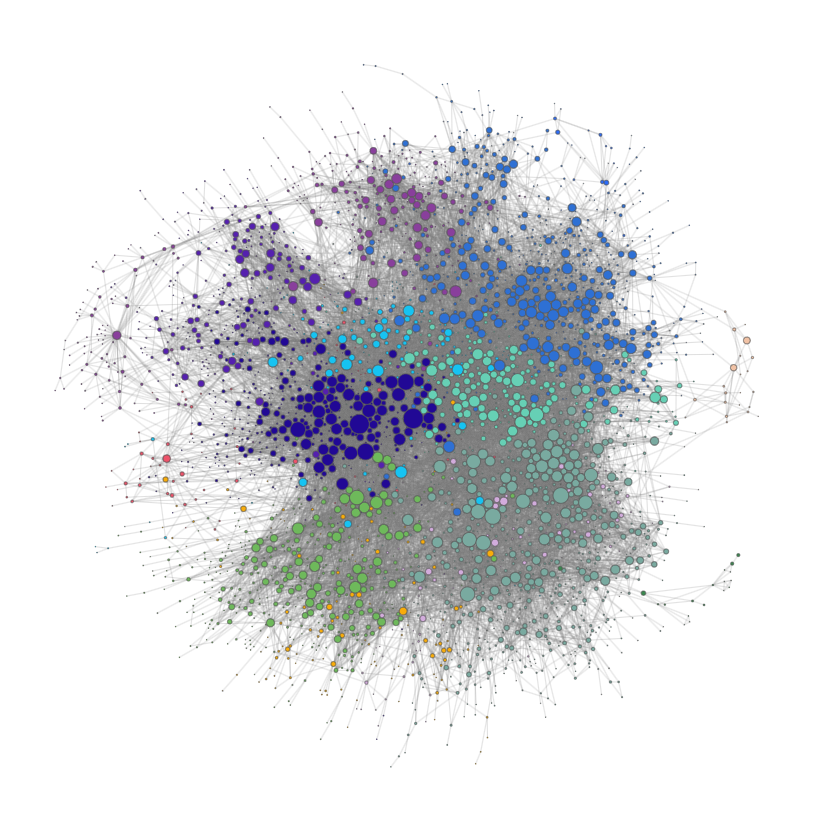
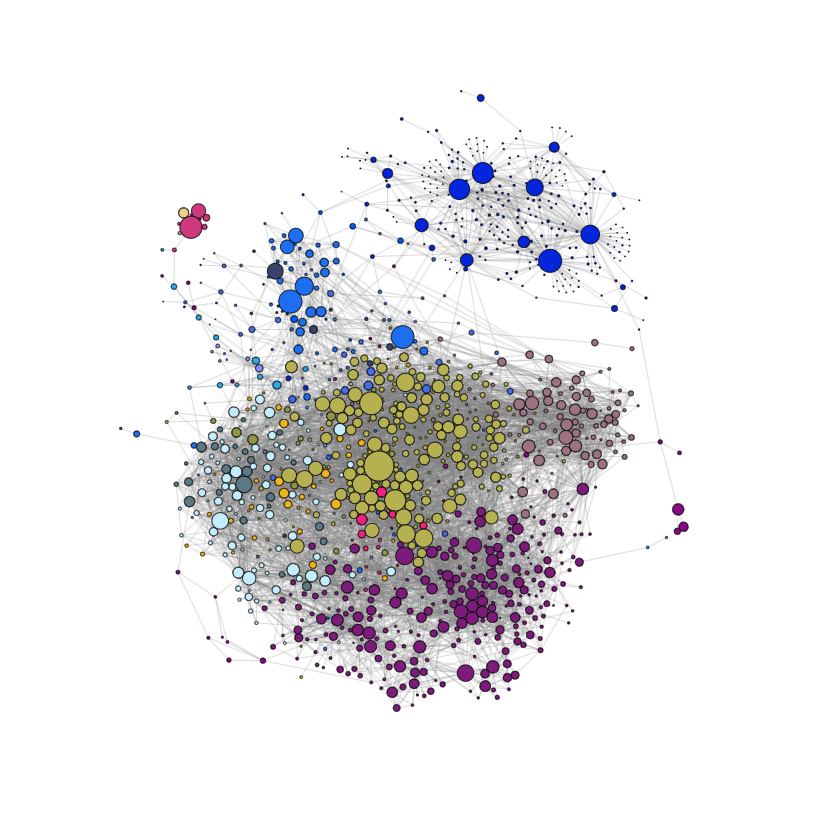
New network images, refactoring based on removing a lot of authors

Changed region(s): [[0.0935, 0.1247, 0.8417, 0.8729], [0.8417, 0.4053, 0.9041, 0.4988], [0.8417, 0.6859, 0.8729, 0.717]]

diff --git a/content/network-analysis.md b/content/network-analysis.md
@@ -4,45 +4,47 @@ prev: data-description
 next: text-analysis
 ---
 
-We construct the network based on the co-authorship of articles. We define two authors as co-authors if they have
-written at least one article together. We then construct a network where each node represents an author and each edge
-represents a co-authorship between two authors. The network is undirected and unweighted. The nodes are scaled based on
-the number of articles the author has written. A network is created for each publication.
+We construct the network based on the co-authorship of articles, to examine the collaborations of the news agencies.
+We construct a graph where each node represents an author and each edge represents a co-authorship between two authors.
+The network is undirected and unweighted. The size of the nodes are scaled based on the number of articles the author has written.
+We create a graph for both Reuters and The New York Times.
 
-In the image below the full Reuters graph can be seen.
-
-![](/images/reuters0.png)
-
-As can be seen, the largest connected component of the graph is surrounded by a large number of small components. We
-chose to focus on the largest component as there are not many connections to investigate in the smaller components.
-Where the nodes are colored based on the author's most publicised section in the dataset.
-
-![](/images/reuters1.png)
-
-In the following image the Reuters graph is shown with the nodes colored based on the Louvain community detection
-algorithm.
-
-![](/images/reuters2.png)
-
-The New York Times graph is shown below, we see that there is a very large blob in the center of the graph,
-containing a few big authors and majorly authors with a small number of articles written.
-Most if not all of these authors belong to the "Movies" section of the newspaper, and are likely to be actors,
-actresses, directors, etc. such as John Cena, Jake Gyllenhaal, etc.
+In the image below the full New York Times graph can be seen.
 
 ![](/images/nyt0.png)
 
-Akin to the Reuters graph, there were a lot of small components surrounding the largest component. And we once again
-chose to focus on the largest component.
-With the nodes being colored based on the author's most publicised section in the dataset.
+As can be seen there is a large blob in the center of the graph, containing a few authors with a larger number of articles,
+and a lot of authors with a very small number of articles written, all belonging to the Movies section of the newspaper.
+Upon further inspection we found that a majority of these "authors" were actually actors, actresses, or other celebrities
+such as John Cena, Jake Gyllenhaal, Margot Robbie, etc. All of which had a low number of articles, where they were listed
+as authors, likely due to the fact that they were the subject of the article or were interviewed for the article. As such we 
+chose to remove all nodes with less than 5 articles written, and the corresponding articles that would result in having a 
+single author or no author are also removed.
+
+In the figures below we see the degree distribution of the largest connected component of New York Times graph before and
+after removing the nodes with less than 5 articles written.
+
+|               Before               |               After               |
+|:----------------------------------:|:---------------------------------:|
+| ![](/images/nyt_degree_before.png) | ![](/images/nyt_degree_after.png) |
+
+Additionally, there are also some network statistics for the graph before and after removing these nodes.
+
+|            Stat             |  Before  |   After   |
+|:---------------------------:|:--------:|:---------:|
+|           #Nodes            |  15,556  |   1,234   |
+|           #Edges            |  79,857  |   7,342   |
+|         Avg. degree         |  10.26   |   11.90   |
+|        Median degree        |    7     |     5     |
+| Avg. clustering coefficient |  0.792   |   0.184   |
+
+
+
+
+
+The resulting graph of removing the nodes corresponding to authors with 5 or fewer articles written can be seen below.
 
 ![](/images/nyt1.png)
-
-And once again the graph is shown with the nodes colored based on the Louvain community detection algorithm.
-
-![](/images/nyt2.png)
-
-For both of the graphs we perform randomization experiments using the double edge swap algorithm and computing the
-modularity of the randomized graphs using the section partitioning of the graph.
 
 ### Reuters randomization experiment
 
